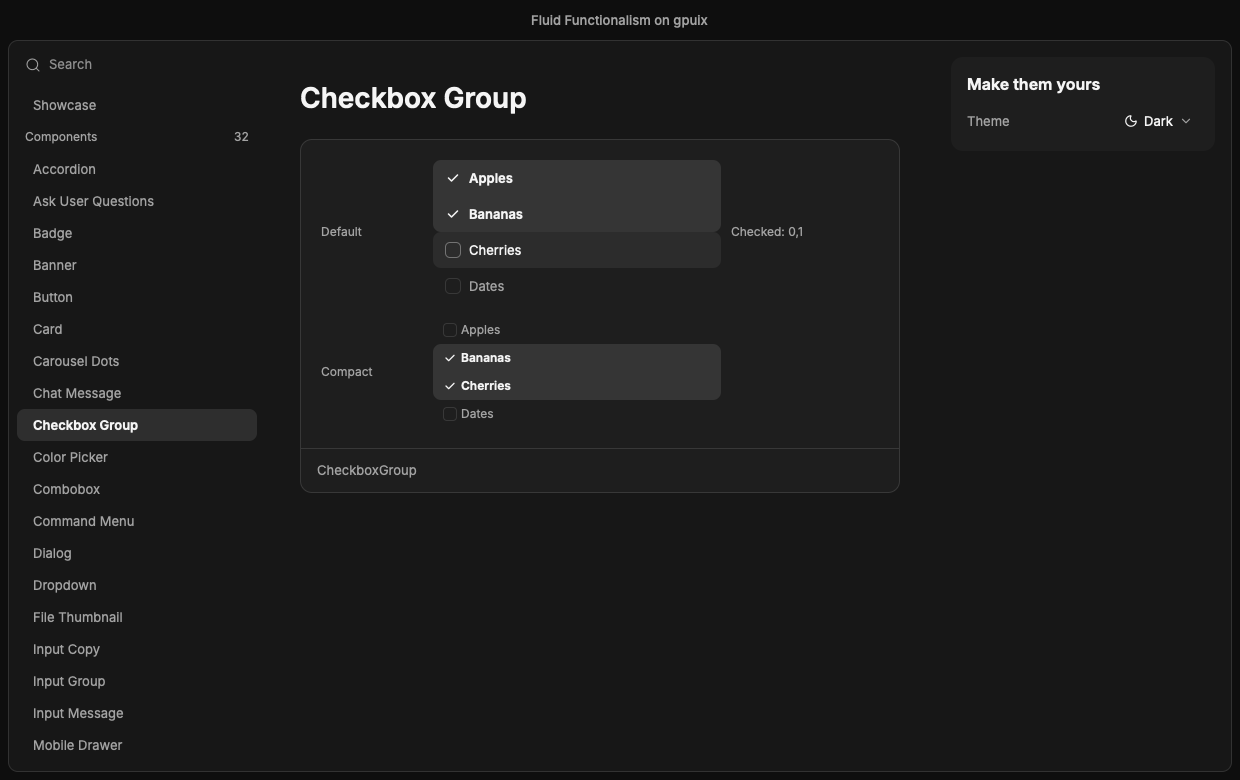
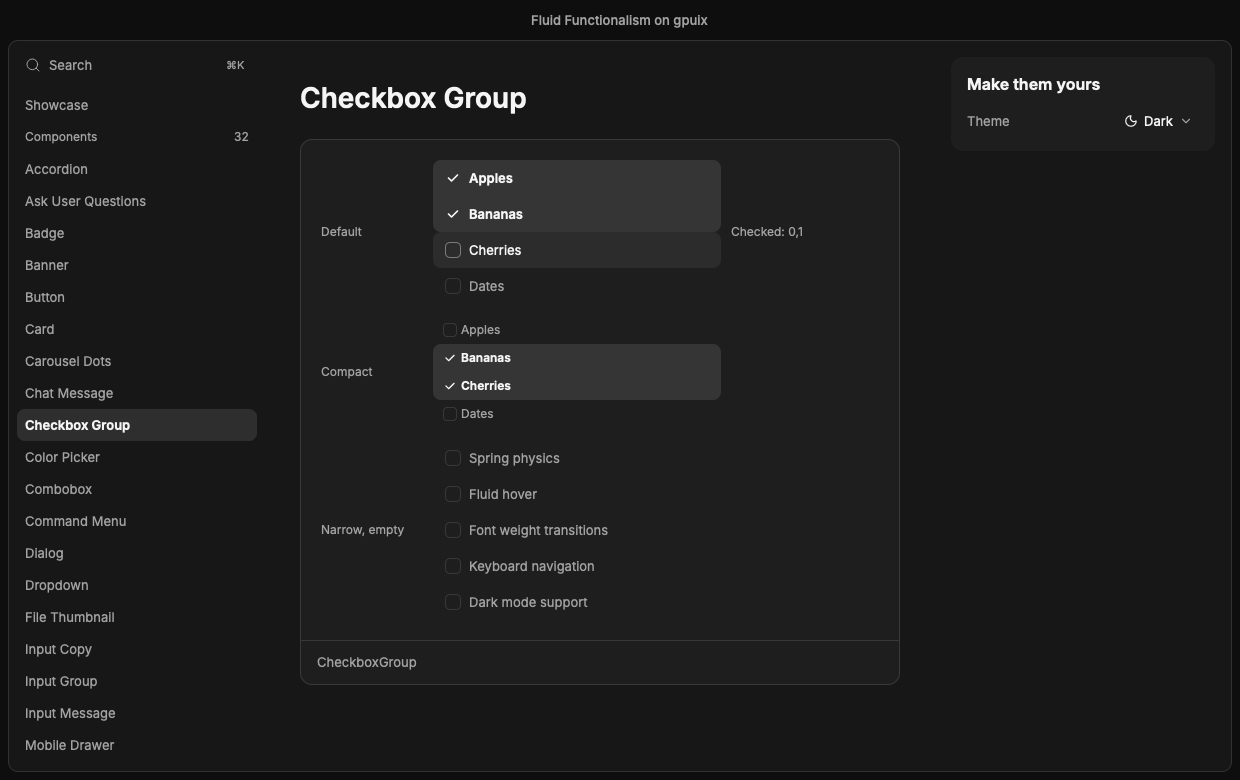
CheckboxGroup demo: the bento preview's narrow group with nothing checked

diff --git a/src/demos/checkbox-group.tsx b/src/demos/checkbox-group.tsx
@@ -4,10 +4,20 @@ import type { DemoModule } from "../lib/demo";
 import { DemoCard, DemoRow } from "../lib/demo-kit";
 import { color, type as scale } from "../lib/theme";
 
-const ITEMS = ["Apples", "Bananas", "Cherries", "Dates"];
+const FRUITS = ["Apples", "Bananas", "Cherries", "Dates"];
+
+/** The bento preview's rows (`app/components/demo-data.ts:62-68`). */
+const FEATURES = [
+	"Spring physics",
+	"Fluid hover",
+	"Font weight transitions",
+	"Keyboard navigation",
+	"Dark mode support",
+];
 
 function Group(props: {
 	testId: string;
+	items: readonly string[];
 	initial: number[];
 	size?: "default" | "compact";
 	readout?: boolean;
@@ -28,7 +38,7 @@ function Group(props: {
 				checkedIndices={checked()}
 				size={props.size}
 			>
-				<For each={ITEMS}>
+				<For each={props.items}>
 					{(label: string, index) => (
 						<CheckboxItem
 							testId={`${props.testId}-${index()}`}
@@ -58,10 +68,20 @@ export function Demo() {
 		<DemoCard title="CheckboxGroup">
 			<div style={{ display: "flex", flexDirection: "column", gap: 12 }}>
 				<DemoRow label="Default">
-					<Group testId="box" initial={[0]} readout />
+					<Group testId="box" items={FRUITS} initial={[0]} readout />
 				</DemoRow>
 				<DemoRow label="Compact">
-					<Group testId="small" initial={[1, 2]} size="compact" />
+					<Group
+						testId="small"
+						items={FRUITS}
+						initial={[1, 2]}
+						size="compact"
+					/>
+				</DemoRow>
+				<DemoRow label="Narrow, empty">
+					<div style={{ display: "flex", flexDirection: "column", width: 220 }}>
+						<Group testId="narrow" items={FEATURES} initial={[]} />
+					</div>
 				</DemoRow>
 			</div>
 		</DemoCard>
@@ -73,7 +93,10 @@ export const scenarios: DemoModule["scenarios"] = async (shot) => {
 	const row = shot.centerOf("box-2");
 	await shot.moveTo(row.x - 144 + 60, row.y);
 	shot.capture("hover");
-	await shot.clickAt(shot.centerOf("box-1").x - 144 + 60, shot.centerOf("box-1").y);
+	await shot.clickAt(
+		shot.centerOf("box-1").x - 144 + 60,
+		shot.centerOf("box-1").y,
+	);
 	shot.expectText("Bananas", true);
 	await shot.hover("box-2");
 	shot.capture("checked-pair");
@@ -103,4 +126,7 @@ export const scenarios: DemoModule["scenarios"] = async (shot) => {
 	shot.expectText("Checked: 0,2", true);
 	shot.expectAria("box-0", { role: "CheckBox", toggled: "True" });
 	shot.expectAria("box-1", { toggled: "False" });
+	// The hover fill shows the narrow group's width.
+	await shot.click("narrow-1");
+	shot.capture("narrow-checked");
 };

diff --git a/drift/checkbox-group.md b/drift/checkbox-group.md
@@ -117,9 +117,9 @@ Same in both (checked against the code): row height, gap and padding per size (3
 
 ## Demo variants
 
-- **Cause:** `not ported yet` for the missing ones; the extras are port additions.
+- **Cause:** `port choice` (extras are port additions); the sizes-page variant is `not ported yet`.
 - **Original:** the docs page has one example, Basic: Apples, Bananas, Cherries, Dates, Apples checked (`app/docs/checkbox-group/page.tsx:56-77`). Other pages use it with nothing checked at 220 px (`app/components/bento-previews.tsx:288-309`) and as a two-row group inside a compact `SizeProvider` at `w-44` (`app/docs/sizes/page.tsx:498-515`).
-- **Port:** Default (Apples checked, plus a "Checked: ..." readout) and Compact (Bananas and Cherries checked) (`src/demos/checkbox-group.tsx:56-67`). Missing: nothing checked at rest, narrow width.
+- **Port:** Default (Apples checked, plus a "Checked: ..." readout), Compact (Bananas and Cherries checked) and "Narrow, empty" (the bento preview's five rows, nothing checked, in a 220 px wrapper the group's `maxWidth: 100%` shrinks to) (`src/demos/checkbox-group.tsx`). Missing: the `w-44` two-row group of the sizes page (the port has no `SizeProvider`, see "`size` is read twice").
 - **Workaround:** none.
 - **Fidelity:** approximated.
 - **Components it hits:** just this one.
